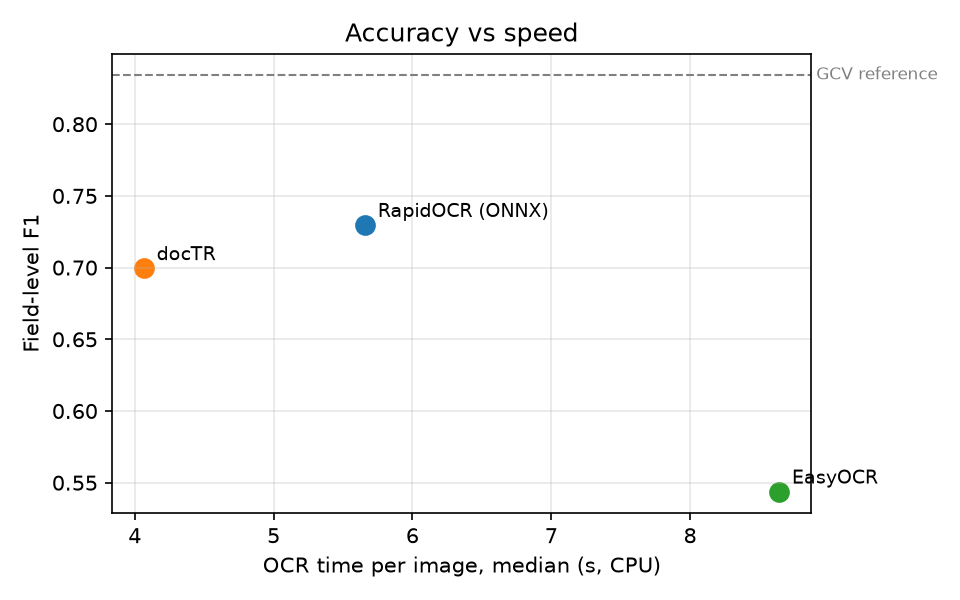
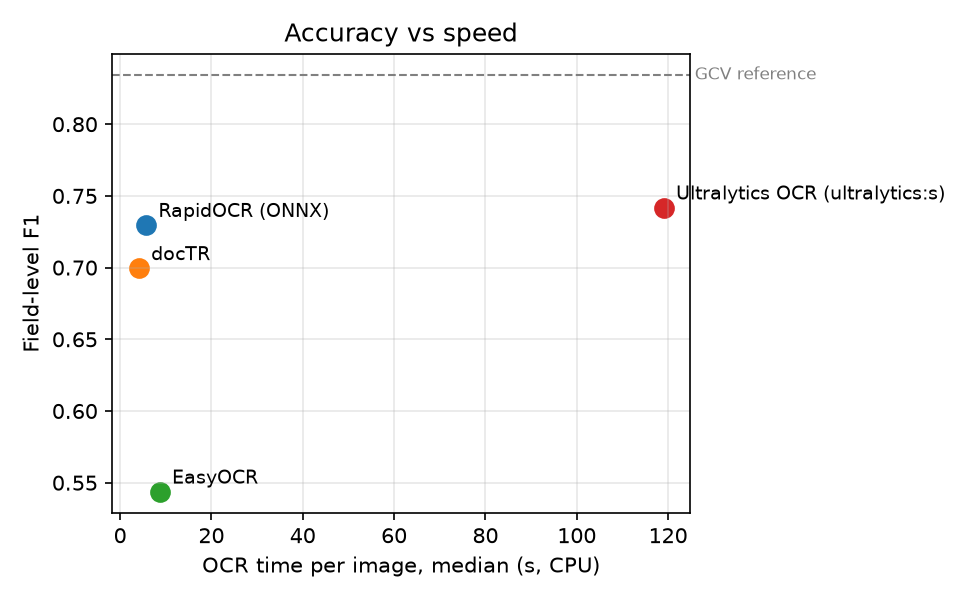
benchmark: report labels for ultralytics sizes, add full-split results and hard-image comparison

diff --git a/benchmark/report.py b/benchmark/report.py
@@ -23,7 +23,7 @@ ENGINE_LABELS = {
     "doctr": "docTR",
     "easyocr": "EasyOCR",
     "tesseract": "Tesseract 5",
-    "ultralytics": "Ultralytics OCR (YOLO26 + PP-OCRv6)",
+    "ultralytics": "Ultralytics OCR (YOLO26 text detector + PP-OCRv6 recognizer)",
     "surya": "Surya",
     "paddleocr-vl": "PaddleOCR-VL (VLM)",
     "olmocr": "olmOCR-2 7B (VLM)",
@@ -36,6 +36,18 @@ ENGINE_LABELS = {
 }
 
 
+def _label(engine: str, short: bool = False) -> str:
+    """Display name; ``ultralytics:s`` adds the detector size to the base label."""
+    base, _, size = engine.partition(":")
+    if short and base == "ultralytics":
+        return f"Ultralytics OCR ({engine})"
+    if engine in ENGINE_LABELS:
+        return ENGINE_LABELS[engine]
+    if base == "ultralytics" and size:
+        return f"Ultralytics OCR (YOLO26-{size} text detector + PP-OCRv6 recognizer), `{engine}`"
+    return ENGINE_LABELS.get(base, engine)
+
+
 def _table(summaries: dict) -> str:
     rows = sorted(summaries.values(), key=lambda s: s["f1"], reverse=True)
     lines = [
@@ -45,14 +57,16 @@ def _table(summaries: dict) -> str:
     for s in rows:
         lat = s.get("ocr_latency_median_s")
         lines.append(
-            f"| {ENGINE_LABELS.get(s['engine'], s['engine'])} | **{s['f1']:.3f}** | "
+            f"| {_label(s['engine'])} | **{s['f1']:.3f}** | "
             f"{s['precision']:.3f} | {s['recall']:.3f} | {s['perfect_document_rate']:.1%} | "
             f"{s['ocr_value_recall']:.1%} | {lat if lat is not None else '-'} |"
         )
-    n = rows[0]["documents"] if rows else 0
+    counts = sorted({r["documents"] for r in rows})
+    n = f"{counts[-1]} images ({counts[0]} in the row with fewer)" if len(counts) > 1 else (
+        f"{counts[0]} images" if counts else "0 images")
     split = rows[0].get("split", "test") if rows else "test"
     lines.append("")
-    lines.append(f"*{n} images, `{split}` split. \\*The reference row uses the dataset's own "
+    lines.append(f"*{n}, `{split}` split. \\*The reference row uses the dataset's own "
                  "Google Cloud Vision tokens, so it measures the extractor with near-perfect OCR.*")
     return "\n".join(lines)
 
@@ -70,7 +84,7 @@ def _charts(summaries: dict, assets: Path) -> list[Path]:
         fig, ax = plt.subplots(figsize=(6.4, 4.0), dpi=150)
         for s in engines:
             ax.scatter(s["ocr_latency_median_s"], s["f1"], s=80)
-            ax.annotate(ENGINE_LABELS.get(s["engine"], s["engine"]),
+            ax.annotate(_label(s["engine"], short=True),
                         (s["ocr_latency_median_s"], s["f1"]), textcoords="offset points",
                         xytext=(6, 4), fontsize=9)
         ref = summaries.get("gcv")
@@ -95,7 +109,7 @@ def _charts(summaries: dict, assets: Path) -> list[Path]:
         fig, ax = plt.subplots(figsize=(8, 0.55 * len(order) + 1.6), dpi=150)
         im = ax.imshow(data, vmin=0, vmax=1, cmap="viridis", aspect="auto")
         ax.set_xticks(range(len(names)), names, rotation=35, ha="right")
-        ax.set_yticks(range(len(order)), [ENGINE_LABELS.get(e, e) for e in order])
+        ax.set_yticks(range(len(order)), [_label(e, short=True) for e in order])
         for i, row in enumerate(data):
             for j, v in enumerate(row):
                 ax.text(j, i, f"{v:.2f}", ha="center", va="center", fontsize=7,

diff --git a/docs/benchmark.md b/docs/benchmark.md
@@ -115,7 +115,27 @@ The base engine must already have a `predictions.jsonl` from `benchmark.run`. Pe
 
 The results are a sample of N images chosen as the base engine's worst, so they are not comparable to the full-split numbers (the base engine is biased low on this sample by construction).
 
-Results: see below once run.
+Results (test split, the 10 lowest-scoring images of `ultralytics:s`; the recorded run is `benchmark/results/compare_ultralytics-s_vs_ultralytics-x.json`):
+
+| idx | F1 `ultralytics:s` | F1 `ultralytics:x` | OCR s `s` | OCR s `x` |
+|---:|---:|---:|---:|---:|
+| 48 | 0.000 | 0.000 | 107.1 | 65.7 |
+| 51 | 0.000 | 0.000 | 127.6 | 112.1 |
+| 53 | 0.000 | 0.000 | 68.9 | 55.5 |
+| 61 | 0.000 | 0.000 | 1115.9 | 987.4 |
+| 173 | 0.000 | 0.111 | 142.8 | 125.2 |
+| 184 | 0.000 | 0.125 | 125.1 | 176.0 |
+| 120 | 0.057 | 0.057 | 507.6 | 617.6 |
+| 124 | 0.105 | 0.333 | 344.5 | 290.2 |
+| 21 | 0.118 | 0.286 | 249.7 | 208.2 |
+| 99 | 0.125 | 0.125 | 88.4 | 76.2 |
+| **mean** | **0.041** | **0.104** | 287.8 | 271.4 |
+
+Reading:
+
+- The larger `x` detector raised the F1 of 4 of the 10 images (idx 173, 184, 124 and 21), left the other 6 unchanged, and lowered none. The mean F1 went from 0.041 to 0.104.
+- Four images (idx 48, 51, 53 and 61) stay at 0 with both detectors. For idx 48, 51 and 53 the cached OCR text contains the nutrition values, and the predictions carry the right numbers but under the wrong basis: the gold fields are per 100 g (idx 48 and 53) or per serving (idx 51), and the extractor assigned the opposite one, so every field counts as wrong. This is an extraction (column assignment) problem, not a detector one, which is why a bigger detector cannot fix it. Idx 61 is a very large photo (2236x4160 px, 836 words read) with the table lost among the other text on the pack; the extractor produced only a few low-quality values. These are readings of the cached OCR and predictions, not a controlled ablation.
+- This is a sample of 10 images chosen as the worst cases of the base engine, so it is not comparable to the full-split F1 (0.742): the base engine is biased low on it by construction, and a mean over 10 images is a noisy estimate. OCR time per image is also noisy here (idx 61 alone took about 1000 s with both detectors); these figures are not a speed comparison of the two sizes.
 
 ## Outputs
 

diff --git a/docs/benchmark_results.md b/docs/benchmark_results.md
@@ -3,8 +3,9 @@
 | Engine | F1 | Precision | Recall | Perfect labels | OCR value recall | OCR s/img (median) |
 |---|---:|---:|---:|---:|---:|---:|
 | Google Cloud Vision (reference*) | **0.834** | 0.887 | 0.787 | 41.9% | 98.0% | - |
+| Ultralytics OCR (YOLO26-s text detector + PP-OCRv6 recognizer), `ultralytics:s` | **0.742** | 0.774 | 0.712 | 20.1% | 95.8% | 119.009 |
 | RapidOCR (ONNX) | **0.730** | 0.856 | 0.636 | 17.6% | 88.3% | 5.661 |
 | docTR | **0.699** | 0.808 | 0.617 | 18.1% | 80.6% | 4.068 |
 | EasyOCR | **0.544** | 0.677 | 0.454 | 6.0% | 52.3% | 8.644 |
 
-*198 images, `test` split. \*The reference row uses the dataset's own Google Cloud Vision tokens, so it measures the extractor with near-perfect OCR.*
+*199 images (198 in the row with fewer), `test` split. \*The reference row uses the dataset's own Google Cloud Vision tokens, so it measures the extractor with near-perfect OCR.*
